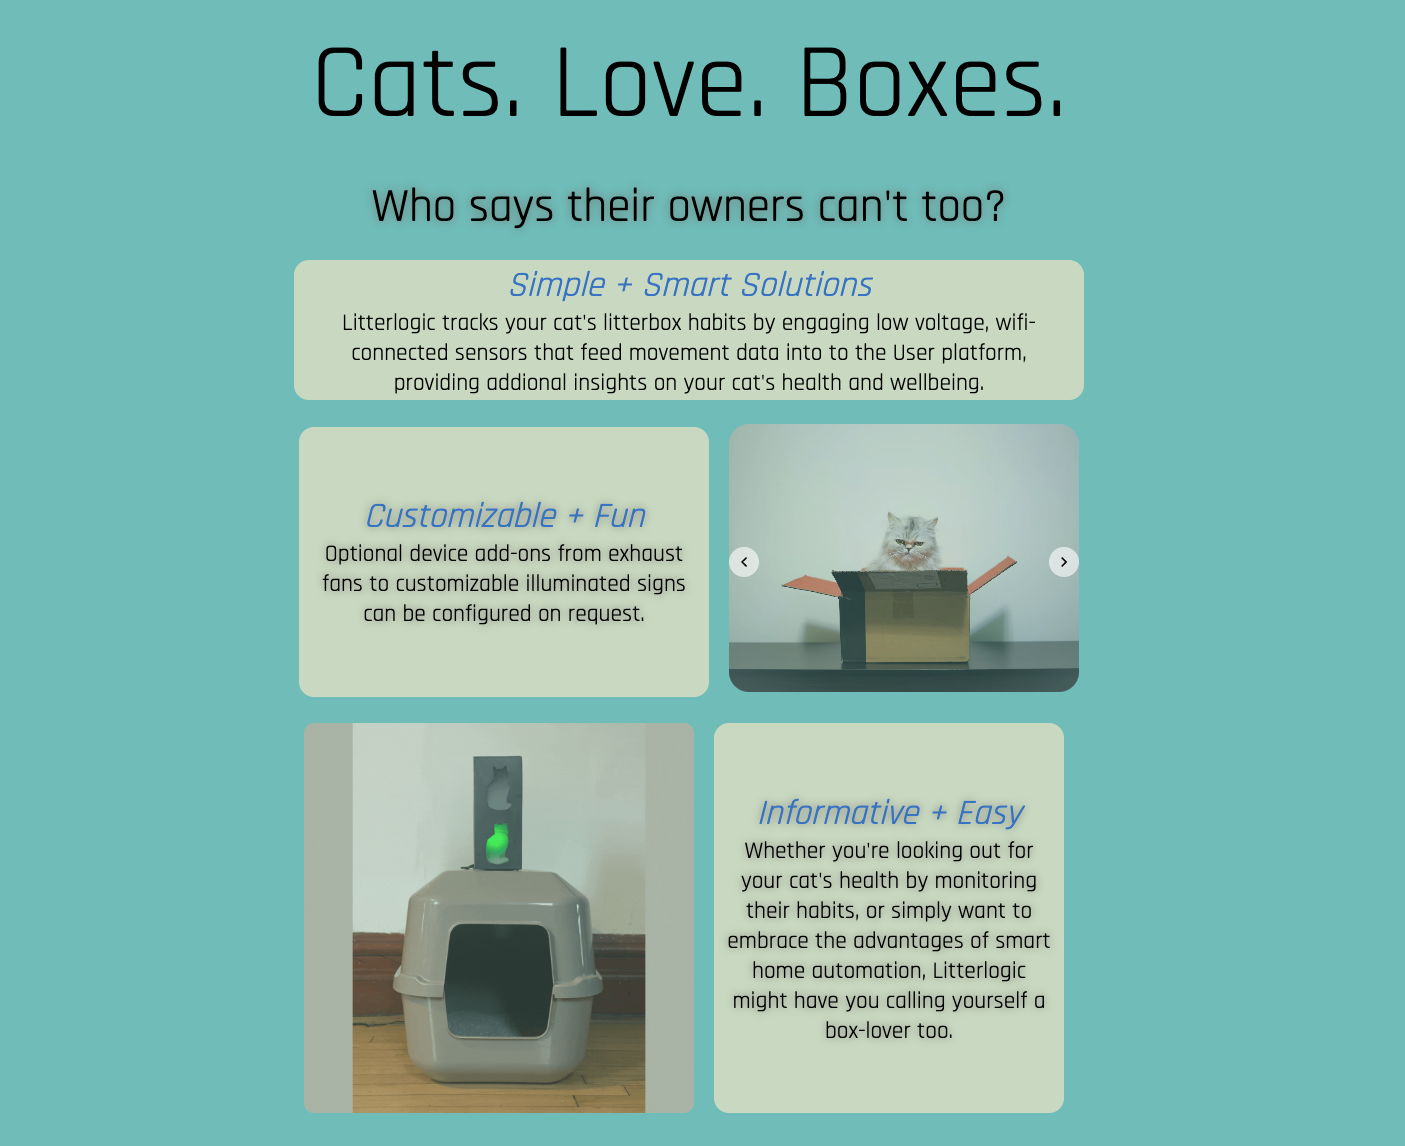
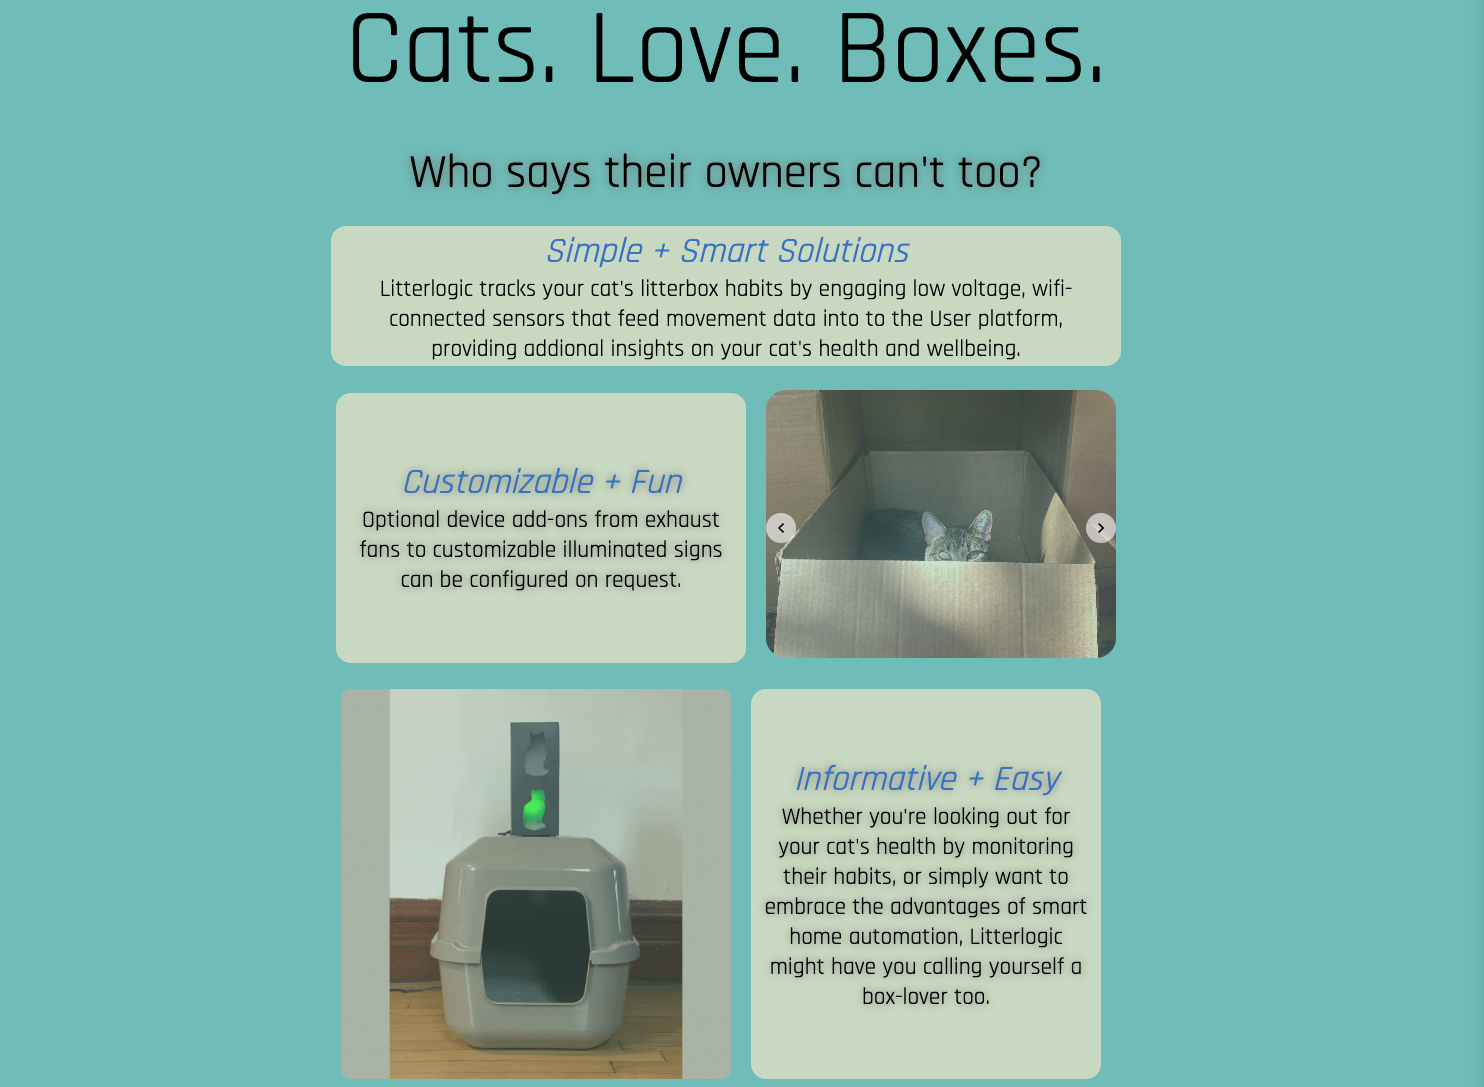
New images/layout update

Changed region(s): [[0.1836, 0.0, 0.7957, 1.0], [0.3979, 0.0, 0.7651, 0.1214]]

diff --git a/style.css b/style.css
@@ -1,10 +1,11 @@
-@import url('https://fonts.googleapis.com/css2?family=Bai+Jamjuree:wght@300&family=Bebas+Neue&family=Montserrat:wght@200&display=swap');
-
+/* 
+ */
+@import url('https://fonts.googleapis.com/css2?family=Bai+Jamjuree:wght@300&family=Bebas+Neue&family=Literata:opsz,wght@7..72,700&family=Montserrat:wght@200&family=Oswald&family=Quattrocento&display=swap');
 
 
 .App {
   width: 95%;
-  font-family: 'Bai Jamjuree', sans-serif;
+  font-family: 'Quattrocento', serif;
 
 }
 
@@ -40,6 +41,7 @@ body {
 
 
 .header-first {
+  letter-spacing: 1.5vw;
   font-size: 7vw;
   z-index: 1;
   text-decoration: line-through;
@@ -47,7 +49,7 @@ body {
 }
 
 .header-last {
-
+  letter-spacing: 1vw;
   margin-bottom: 4vh;
   font-size: 3vw;
   z-index: 20;
@@ -86,16 +88,30 @@ body {
 .stack-container {
   display: flex;
   grid-column-start: 2;
-  justify-content: space-between;
-  align-items: center;
-
-
+  justify-content: space-around;
+  align-items: flex-start;
   padding: 5vh 0;
   flex-wrap: wrap;
 
 
 
 }
+
+/* .p4 {
+  grid-row-start: 2;
+}
+
+.p3 {
+  grid-row-start: 3;
+}
+
+.p2 {
+  grid-row-start: 4;
+}
+
+.p1 {
+  grid-row-start: 5;
+} */
 
 
 .top {
@@ -108,7 +124,7 @@ body {
 .project {
   grid-column-start: 2;
   grid-row: 1;
-  text-align: right;
+
 
 
   font-size: 4vw;
@@ -119,11 +135,29 @@ body {
   display: flex;
   flex-direction: column;
   justify-content: space-evenly;
-  width: 40vw;
-  text-align: right;
+  width: 32vw;
+  height: 28vw;
+  text-align: center;
   font-size: 2.5vw;
+  overflow-wrap: break-word;
+
 
 }
+
+/* .blurb {
+  display: flex;
+  align-items: center;
+  font-size: 1.75vh;
+  width: 30vw;
+
+  margin-bottom: 2vh;
+  text-align: center;
+  line-height: 2vh;
+  font-family: 'Montserrat', sans-serif;
+  word-spacing: 0.7vh;
+  color: grey;
+} */
+
 
 
 
@@ -162,8 +196,8 @@ summary {
 }
 
 .underlay {
-  font-family: 'Bebas Neue', cursive;
-  font-size: 14vw;
+  font-family: 'Oswald', sans-serif;
+  font-size: 10vw;
   color: grey;
   z-index: -1;
   margin-top: 2vw;
@@ -236,12 +270,12 @@ summary {
 
 .proj-img img {
   object-fit: cover;
-  width: 37vw;
-  height: 32vw;
+  width: 35vw;
+  height: 28vw;
   ;
   transition: opacity 0.5s ease-in-out;
   transition: transform 0.3s ease-in-out;
-  border-radius: 10px;
+
   opacity: 0.7;
 
 
@@ -418,12 +452,15 @@ button {
 }
 
 .etc {
-
+  display: flex;
+  align-items: center;
+  justify-content: center;
   width: 30vw;
+  height: 30vw;
   border: 1px dashed grey;
   color: grey;
   border-radius: 10px;
-  padding: 45% 0 45% 0;
+
   text-align: center;
 
   background-color: rgba(203, 163, 62, 0.4)
@@ -645,9 +682,10 @@ li {
 
 
 .dev {
+  letter-spacing: 0.3vw;
   text-align: center;
   font-size: clamp(1.75rem, 5vw, 3rem);
-
+  font-family: 'Montserrat', sans-serif;
   margin-bottom: 9vh;
   text-shadow: 5px 0 15px #878786d2;
 }
@@ -858,9 +896,6 @@ a {
 
 }
 
-.top {
-  margin: 0 2vw 0 2vw;
-}
 
 
 
@@ -894,10 +929,14 @@ a {
 
   .header-first {
     font-size: 10vw;
+
+
   }
 
   .header-last {
     font-size: 6vw;
+
+
   }
 
   .circle-four img {

diff --git a/index.html b/index.html
@@ -150,29 +150,30 @@
 
     <div class="section-grid">
       <div class="underlay">PROJECTS</div>
+
       <div class="p4 stack-container">
         <div class="project-info">
-          <div>
 
-            <div class="project">LITTERLOGIC</div>
-            <div>IOT + MERN Stack Concept App</div>
-            <div class="tech">
-              <i class="fa-brands fa-react"></i>
-              <i class="fa-brands fa-node-js"></i>
-              <i class="fa-brands fa-square-js"></i>
-              <i class="fa-brands fa-html5"></i>
-              <i class="fa-brands fa-css3-alt"></i>
-              <i class="fa-solid fa-microchip"></i>
-            </div>
-            <div class="proj-links">
-              <a href="https://github.com/mashbash2150/Litterlogic-Frontend" target="_blank">
-                <button>GitHub Repo</button>
-              </a>
-              <a href="https://litterlogic.herokuapp.com/" target="_blank">
-                <button>Deployed App</button>
 
-              </a>
-            </div>
+          <div class="project">LITTERLOGIC</div>
+          <div>IOT + MERN Stack Concept App</div>
+          <div class="tech">
+            <i class="fa-brands fa-react"></i>
+            <i class="fa-brands fa-node-js"></i>
+            <i class="fa-brands fa-square-js"></i>
+            <i class="fa-brands fa-html5"></i>
+            <i class="fa-brands fa-css3-alt"></i>
+            <i class="fa-solid fa-microchip"></i>
+          </div>
+          <div class="proj-links">
+            <a href="https://github.com/mashbash2150/Litterlogic-Frontend" target="_blank">
+              <button>GitHub Repo</button>
+            </a>
+            <a href="https://litterlogic.herokuapp.com/" target="_blank">
+              <button>Deployed App</button>
+
+            </a>
+
           </div>
 
         </div>
